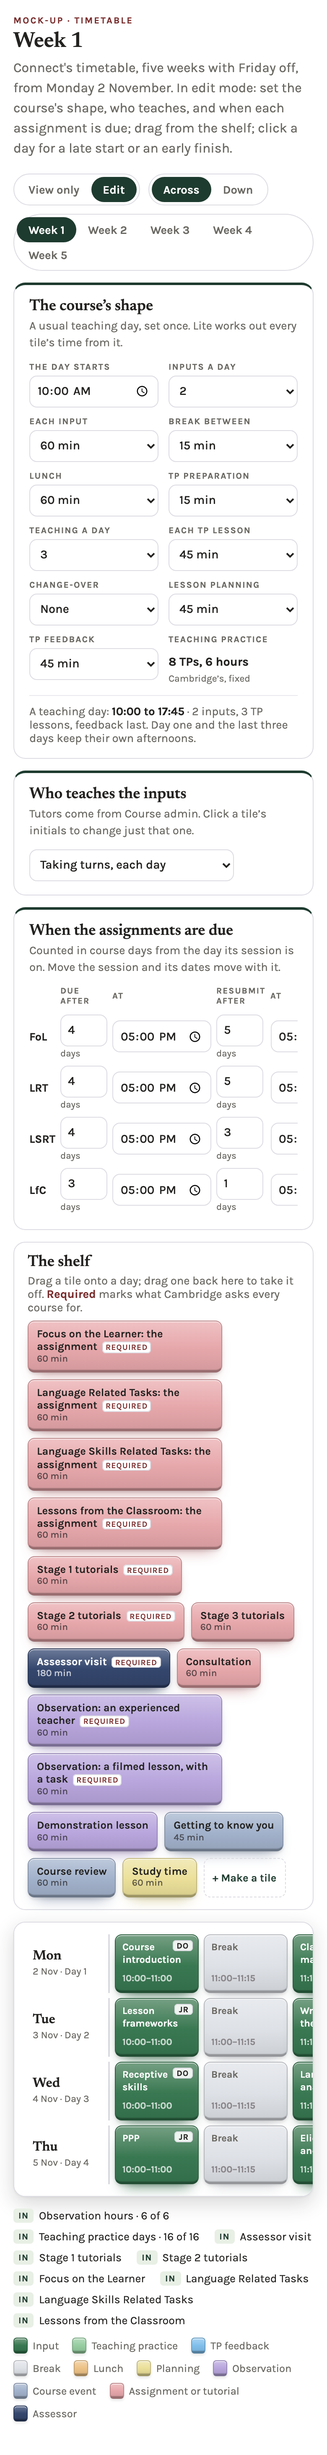
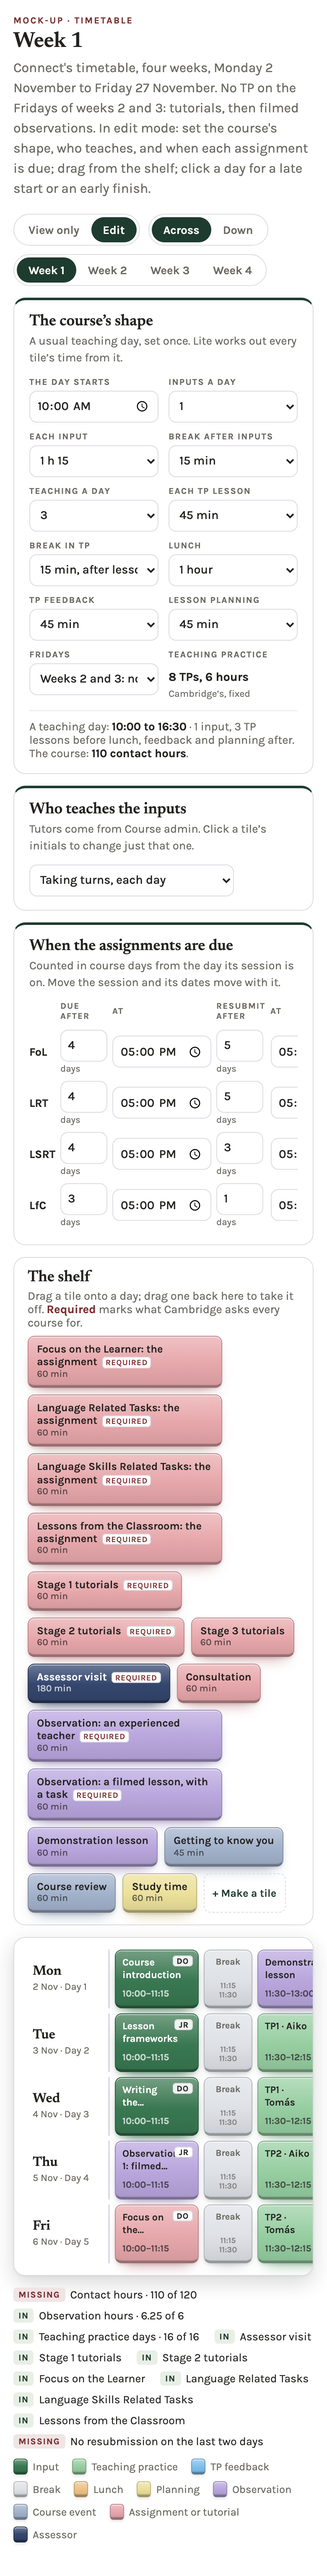
Timetable mock-up on Connect's new day (Ramy, 29 Oct 2026): input 10:00-11:15, break, three 45-minute TP lessons from 11:30 with a break after the second, lunch 14:00-15:00, feedback 15:00-15:45, planning 15:45-16:30; four weeks, Monday to Friday; no TP on the Fridays of weeks 2 (Stage 1 tutorials) 

diff --git a/docs/mockups/timetable-whole.html b/docs/mockups/timetable-whole.html
@@ -86,6 +86,8 @@
   .cell.has-who .t{padding-right:28px;}
   .cell .me{display:inline-flex; align-items:center; justify-content:center; min-width:22px; height:22px; margin-left:4px; border-radius:6px; background:var(--a-forest); color:var(--paper); font:700 .8rem Karla,sans-serif; vertical-align:1px;}
   .empty{background:none; border:1.5px dashed var(--row-line);}
+  .cell.slim{padding:7px 5px; font-size:.68rem; align-items:center; text-align:center;} .cell.slim .tm{font-size:.6rem; line-height:1.2;}
+  .grid.down .cell.slim{height:34px; flex-direction:row; justify-content:space-between; padding:0 10px;} .grid.down .cell.slim .tm{margin:0;}
   .gone{background:repeating-linear-gradient(135deg, transparent 0 6px, var(--row-line) 6px 7px); border:1.5px solid var(--row-line); color:var(--grey); font-size:.72rem; font-weight:600; justify-content:center; align-items:center; text-align:center;}
 
 .k-assessor small{color:color-mix(in oklch, var(--paper) 80%, transparent);}
@@ -143,7 +145,7 @@
 <div class="wrap" id="root">
   <p class="eyebrow">Mock-up · Timetable</p>
   <h1 id="title">Week 1</h1>
-  <p class="lede">Connect's timetable, five weeks with Friday off, from Monday 2 November. In edit mode: set the course's shape, who teaches, and when each assignment is due; drag from the shelf; click a day for a late start or an early finish.</p>
+  <p class="lede">Connect's timetable, four weeks, Monday 2 November to Friday 27 November. No TP on the Fridays of weeks 2 and 3: tutorials, then filmed observations. In edit mode: set the course's shape, who teaches, and when each assignment is due; drag from the shelf; click a day for a late start or an early finish.</p>
   <div class="bar">
     <div class="seg" id="mode"><button data-v="view" class="on">View only</button><button data-v="edit">Edit</button></div>
     <div class="seg" id="lay"><button data-v="across" class="on">Across</button><button data-v="down">Down</button></div>
@@ -157,16 +159,16 @@
       <p class="s">A usual teaching day, set once. Lite works out every tile&rsquo;s time from it.</p>
       <div class="f">
         <label><span>The day starts</span><input type="time" id="sh_start" value="10:00" step="900"></label>
-        <label><span>Inputs a day</span><select id="sh_inN"><option>1</option><option selected>2</option><option>3</option></select></label>
-        <label><span>Each input</span><select id="sh_inL"><option value="45">45 min</option><option value="60" selected>60 min</option><option value="75">75 min</option><option value="90">90 min</option></select></label>
-        <label><span>Break between</span><select id="sh_br"><option value="0">None</option><option value="15" selected>15 min</option><option value="30">30 min</option></select></label>
-        <label><span>Lunch</span><select id="sh_lu"><option value="30">30 min</option><option value="45">45 min</option><option value="60" selected>60 min</option></select></label>
-        <label><span>TP preparation</span><select id="sh_pr"><option value="0">None</option><option value="15" selected>15 min</option><option value="30">30 min</option></select></label>
+        <label><span>Inputs a day</span><select id="sh_inN"><option selected>1</option><option>2</option></select></label>
+        <label><span>Each input</span><select id="sh_inL"><option value="45">45 min</option><option value="60">60 min</option><option value="75" selected>1 h 15</option><option value="90">1 h 30</option></select></label>
+        <label><span>Break after inputs</span><select id="sh_br"><option value="0">None</option><option value="15" selected>15 min</option><option value="30">30 min</option></select></label>
         <label><span>Teaching a day</span><select id="sh_tpN"><option>2</option><option selected>3</option><option>4</option></select></label>
         <label><span>Each TP lesson</span><select id="sh_tpL"><option value="40">40 min</option><option value="45" selected>45 min</option><option value="60">60 min</option></select></label>
-        <label><span>Change-over</span><select id="sh_gap"><option value="0" selected>None</option><option value="15">15 min</option></select></label>
-        <label><span>Lesson planning</span><select id="sh_pl"><option value="0">None</option><option value="45" selected>45 min</option><option value="60">60 min</option></select></label>
+        <label><span>Break in TP</span><select id="sh_gap"><option value="0">None</option><option value="15" selected>15 min, after lesson 2</option></select></label>
+        <label><span>Lunch</span><select id="sh_lu"><option value="30">30 min</option><option value="45">45 min</option><option value="60" selected>1 hour</option></select></label>
         <label><span>TP feedback</span><select id="sh_fb"><option value="30">30 min</option><option value="45" selected>45 min</option><option value="60">60 min</option></select></label>
+        <label><span>Lesson planning</span><select id="sh_pl"><option value="0">None</option><option value="45" selected>45 min</option><option value="60">60 min</option></select></label>
+        <label><span>Fridays</span><select id="sh_fri"><option value="obs" selected>Weeks 2 and 3: no TP</option><option value="tp">Like any day</option></select></label>
         <div class="fixed"><span class="lab">Teaching practice</span><b>8 TPs, 6 hours</b><small>Cambridge&rsquo;s, fixed</small></div>
       </div>
       <p class="sum" id="sum"></p>
@@ -219,7 +221,7 @@
     { k:'event', t:'Getting to know you', len:45 }, { k:'event', t:'Course review', len:60 }, { k:'plan', t:'Study time', len:60 }
   ];
   /* five weeks, Friday off */
-  var DATES = []; (function(){ var d = new Date(2026, 10, 2); while (DATES.length < 20) { if ([1,2,3,4].indexOf(d.getDay()) !== -1) DATES.push(new Date(d)); d.setDate(d.getDate() + 1); } })();
+  var DATES = []; (function(){ var d = new Date(2026, 10, 2); while (DATES.length < 20) { if ([1,2,3,4,5].indexOf(d.getDay()) !== -1) DATES.push(new Date(d)); d.setDate(d.getDate() + 1); } })();
   var WD = ['Sun','Mon','Tue','Wed','Thu','Fri','Sat'], MO = ['Jan','Feb','Mar','Apr','May','Jun','Jul','Aug','Sep','Oct','Nov','Dec'];
   function v(id){ var e = document.getElementById(id); return e.type === 'time' ? e.value : +e.value; }
   function hm(m){ return String(Math.floor(m / 60)).padStart(2, '0') + ':' + String(m % 60).padStart(2, '0'); }
@@ -229,53 +231,81 @@
   var mode = 'view', lay = 'across', week = 0, BAR = [], CELLS = [], MOD = {}, HAND = {}, drag = null, pop = null;
   function dayShape(){
     var t = mins(v('sh_start')), out = [];
-    function add(k, len, gap){ if (len > 0) { out.push({ k: k, s: hm(t), e: hm(t + len) }); t += len; } t += gap || 0; }
-    var n = v('sh_inN'); for (var i = 0; i < n; i++) { add('input', v('sh_inL')); if (i < n - 1 && v('sh_br')) add('break', v('sh_br')); }
-    add('lunch', v('sh_lu')); add('prep', v('sh_pr'));
-    for (var j = 0; j < v('sh_tpN'); j++) add('tp', v('sh_tpL'), v('sh_gap') || (j === 1 ? 15 : 0));
-    add('plan', v('sh_pl'), 15); add('feedback', v('sh_fb'));
+    function add(k, len){ if (len > 0) { out.push({ k: k, s: hm(t), e: hm(t + len) }); t += len; } }
+    for (var i = 0; i < v('sh_inN'); i++) add('input', v('sh_inL'));
+    add('break', v('sh_br'));
+    for (var j = 0; j < v('sh_tpN'); j++) { add('tp', v('sh_tpL')); if (j === 1) add('break', v('sh_gap')); }
+    add('lunch', v('sh_lu')); add('feedback', v('sh_fb')); add('plan', v('sh_pl'));
     return out;
   }
   function col(s){ var c = 0; for (var i = 0; i < BAR.length; i++) if (BAR[i][0] <= s) c = i; return c; }
-  function who(i){ return document.getElementById('tutMode').value === 'alt' ? TUT[i % 2][0] : (DATES[CUR_DAY] >= DATES[+document.getElementById('tutFrom').value] ? 'JR' : 'DO'); }
-  var CUR_DAY = 0;
+  function who(i){ return document.getElementById('tutMode').value === 'alt' ? TUT[i % 2][0] : (CUR_DAY >= +document.getElementById('tutFrom').value ? 'JR' : 'DO'); }
+  var CUR_DAY = 0, CONTACT = 0;
+  /* which TP is on each day, and whose group: day one is the demonstration lesson; the Fridays of weeks 2 and 3 are
+     filmed observations with no TP; TP8 ends on the last Thursday and the last Friday closes the course */
+  function plan(){
+    var out = [], n = 0, fri = v('sh_fri') !== 'tp' ? 1 : 0;
+    DATES.forEach(function(d, i){
+      var isFri = d.getDay() === 5, last = i === DATES.length - 1;
+      /* Ramy, 29 Oct 2026: "only 2 Fridays off ... week 2, week 3, TP off" */
+      var wk = Math.floor(i / 5);
+      if (i === 0 || (fri && isFri && (wk === 1 || wk === 2)) || n >= 16) { out.push(null); return; }
+      out.push({ tp: Math.floor(n / 2) + 1, g: n % 2 }); n++;
+    });
+    return out;
+  }
   function build(){
     var shape = dayShape(); BAR = shape.map(function(x){ return [x.s, x.e]; });
-    var q = ORDER.slice(); CELLS = [];
+    var q = ORDER.filter(function(x){ return !/^Observation/.test(x); }), P = plan(); CELLS = [];
+    var G = [['Aiko','Nour','Lucas','Mei'], ['Tomás','Lena','Omar','Sofía']];
     function put(row, x){ var c = col(x.s); while (row[c] && c < BAR.length - 1) c++; row[c] = x; }
+    var tps = shape.filter(function(x){ return x.k === 'tp'; }), lunch = shape.filter(function(x){ return x.k === 'lunch'; })[0];
+    var after = shape.filter(function(x){ return x.k === 'feedback' || x.k === 'plan'; });
+    var extra = { 9: [[0,'task','Language Related Tasks: the assignment','lrt'], [3,'task','Stage 1 tutorials']], 14: [[0,'task','Language Skills Related Tasks: the assignment','lsrt'], [3,'task','Stage 2 tutorials']] };
     for (var d = 0; d < 20; d++) {
-      CUR_DAY = d; var row = BAR.map(function(){ return null; }), slot = 0, ti = 0, tp = Math.ceil(d / 2);
+      CUR_DAY = d; var row = BAR.map(function(){ return null; }), p = P[d], isFri = DATES[d].getDay() === 5;
       shape.forEach(function(x){
         if (x.k === 'input') {
-          slot++;
           var o;
-          if (d === 0) o = { k:'input', t: slot === 1 ? 'Course introduction' : 'Classroom management' };
-          else if (d === 18) o = { k:'assessor', t: slot === 1 ? 'Assessor visit: teaching practice' : 'Assessor visit: feedback' };
-          else if (d === 19) o = { k:'event', t: slot === 1 ? 'Course review and CELTA 5 checks' : 'End of course' };
-          else { var tk = TASKS[d + '.' + slot]; if (tk) o = { k: tk[0], t: tk[1], asg: tk[2] }; else { var nx = q.shift() || 'Input session'; o = /^Observation/.test(nx) ? { k:'demo', t: nx + ' (film, with a task)' } : { k:'input', t: nx }; } }
-          if (o.k !== 'assessor' && o.k !== 'event') o.by = who(slot - 1 + d);
+          if (d === 0) o = { k:'input', t:'Course introduction' };
+          else if (d === 4) o = { k:'task', t:'Focus on the Learner: the assignment', asg:'fol' };
+          /* two observations in input slots (Ramy, 29 Oct 2026), so the course reaches Cambridge's six hours */
+          else if (d === 3) o = { k:'demo', t:'Observation 1: filmed, with a task' };
+          else if (d === 12) o = { k:'demo', t:'Observation 2: filmed, with a task' };
+          else if (d === 15) o = { k:'task', t:'Lessons from the Classroom: the assignment', asg:'lfc' };
+          else if (d === 17) o = { k:'assessor', t:'Assessor visit' };
+          else if (d === 19) o = { k:'event', t:'Course review and CELTA 5 checks' };
+          else o = { k:'input', t: q.shift() || 'Input session' };
+          if (o.k !== 'assessor' && o.k !== 'event') o.by = who(d);
           o.s = x.s; o.e = x.e; put(row, o); return;
         }
-        if (x.k === 'break' || x.k === 'lunch') { put(row, { k: x.k, t: KINDS[x.k], s: x.s, e: x.e }); return; }
-        if (d >= 1 && d <= 16) {
-          if (x.k === 'prep') put(row, { k:'plan', t:'TP preparation', s: x.s, e: x.e });
-          /* who teaches, by letter, and the tutor watching (29 Oct 2026, Ramy: the trainee's name stays, and the tutor watching rides on the tile).
-             Two groups take the days in turn; the tutors swap groups after TP4. */
-          if (x.k === 'tp') { var g = d % 2 ? 0 : 1, tut = (g === 0) === (tp <= 4) ? 'DO' : 'JR'; put(row, { k:'tp', t:'TP' + tp + ' · ' + NAMES[(ti++ + (d % 2 ? 0 : 3)) % NAMES.length], by: tut, s: x.s, e: x.e }); }
-          if (x.k === 'plan') put(row, { k:'plan', t:'Lesson planning', s: x.s, e: x.e });
-          if (x.k === 'feedback') put(row, { k:'feedback', t:'TP feedback', s: x.s, e: x.e });
-        }
+        if (x.k === 'break' || x.k === 'lunch') put(row, { k: x.k, t: KINDS[x.k], s: x.s, e: x.e });
       });
-      var lunchEnd = mins(shape.filter(function(x){ return x.k === 'lunch'; })[0].e);
-      function at(off, len, o){ o.s = hm(lunchEnd + off); o.e = hm(lunchEnd + off + len); put(row, o); }
-      if (d === 0) { at(15, 60, { k:'demo', t:'Demonstration lesson' }); at(90, 45, { k:'event', t:'Getting to know you: your activity' }); at(135, 150, { k:'plan', t:'Lesson planning: TP1' }); }
-      if (d === 17) { at(15, 60, { k:'demo', t:'Observation 5: an experienced teacher (film, with a task)', by:'DO' }); at(90, 90, { k:'task', t:'Tutorials', by:'JR' }); at(195, 90, { k:'task', t:'Consultation: assignments and resubmissions', by:'DO' }); }
-      if (d === 18) { at(15, 90, { k:'task', t:'Tutorials', by:'DO' }); at(120, 165, { k:'task', t:'Consultation: the CELTA 5 and the portfolio', by:'JR' }); }
-      if (d === 19) { at(15, 90, { k:'task', t:'Final tutorials', by:'DO' }); at(120, 165, { k:'task', t:'Consultation: what comes next', by:'JR' }); }
+      if (p) {
+        var tut = (p.g === 0) === (p.tp <= 4) ? 'DO' : 'JR';
+        tps.forEach(function(x, i){ put(row, { k:'tp', t:'TP' + p.tp + ' · ' + G[p.g][i % 4], by: tut, s: x.s, e: x.e }); });
+        after.forEach(function(x){ put(row, { k: x.k, t: x.k === 'feedback' ? 'TP feedback' : (p.tp >= 7 ? 'Independent planning' : 'Lesson planning'), by: x.k === 'feedback' ? tut : undefined, s: x.s, e: x.e }); });
+      } else if (d === 0) {
+        put(row, { k:'demo', t:'Demonstration lesson', s: tps[0].s, e: tps[1].e });
+        put(row, { k:'event', t:'Getting to know you: your activity', s: tps[2].s, e: tps[2].e });
+        after.forEach(function(x){ put(row, { k: x.k === 'feedback' ? 'event' : 'plan', t: x.k === 'feedback' ? 'Demo lesson debrief' : 'Lesson planning: TP1', s: x.s, e: x.e }); });
+      } else if (d === 19) {
+        /* the last day */
+        tps.concat(after).forEach(function(x, i){ var f = [['task','Final tutorials'], ['task','Final tutorials'], ['task','Consultation: the CELTA 5 and the portfolio'], ['task','Consultation: what comes next'], ['event','End of course']][i]; put(row, { k: f[0], t: f[1], by: f[0] === 'task' ? who(i) : undefined, s: x.s, e: x.e }); });
+      } else if (isFri) {
+        /* a filmed-observations Friday: three observations with their tasks, consultations, the week's assignment or tutorials */
+        var slots = tps.concat(after), fill = [['demo','Filmed observation, with a task'], ['demo','Filmed observation, with a task'], ['task','Consultation'], ['demo','Filmed observation, with a task'], ['task','Consultation']];
+        /* Ramy, 29 Oct 2026: "week 2 Friday will be tutorials" */
+        if (d === 9) fill = [['task','Stage 1 tutorials'], ['task','Stage 1 tutorials'], ['task','Language Related Tasks: the assignment','lrt'], ['task','Stage 1 tutorials'], ['task','Consultation']];
+        else (extra[d] || []).forEach(function(e){ fill[e[0] === 0 ? 2 : 4] = [e[1], e[2], e[3]]; });
+        slots.forEach(function(x, i){ var f = fill[i] || ['task','Consultation']; var o = { k: f[0], t: f[1], s: x.s, e: x.e }; if (f[2]) o.asg = f[2]; if (f[0] !== 'demo') o.by = who(d + i); put(row, o); });
+      }
       CELLS.push(row);
     }
     var last = shape[shape.length - 1];
-    document.getElementById('sum').innerHTML = 'A teaching day: <b>' + shape[0].s + ' to ' + last.e + '</b> · ' + v('sh_inN') + ' input' + (v('sh_inN') > 1 ? 's' : '') + ', ' + v('sh_tpN') + ' TP lessons, feedback last. Day one and the last three days keep their own afternoons.';
+    var contact = 0; CELLS.forEach(function(row){ row.forEach(function(x){ if (x && x.k !== 'lunch') contact += mins(x.e) - mins(x.s); }); });
+    CONTACT = contact / 60;
+    document.getElementById('sum').innerHTML = 'A teaching day: <b>' + shape[0].s + ' to ' + last.e + '</b> · ' + v('sh_inN') + ' input' + (v('sh_inN') > 1 ? 's' : '') + ', ' + v('sh_tpN') + ' TP lessons before lunch, feedback and planning after. The course: <b>' + (Math.round(CONTACT * 4) / 4) + ' contact hours</b>.';
   }
 
   /* deadlines: from the day an assignment's session sits on, in course days, skipping a day off */
@@ -298,20 +328,21 @@
   function off(r, c){
     var m = MOD[r]; if (!m) return '';
     if (m === 'off') return 'Day off';
-    if (m === 'late' && BAR[c][0] < '11:15') return 'Starts 11:15';
-    if (m === 'early' && BAR[c][0] >= '13:15') return 'Finishes 13:15';
-    if (m === 'notp') { var x = CELLS[r][c]; if (x && (x.k === 'tp' || x.k === 'feedback' || x.t === 'TP preparation' || x.t === 'Lesson planning')) return 'No TP today'; }
+    if (m === 'late' && BAR[c][0] < '11:30') return 'Starts 11:30';
+    if (m === 'early' && BAR[c][0] >= '14:00') return 'Finishes 14:00';
+    if (m === 'notp') { var x = CELLS[r][c]; if (x && (x.k === 'tp' || x.k === 'feedback' || /planning/i.test(x.t))) return 'No TP today'; }
     return '';
   }
   function tile(r, c){
     var x = CELLS[r][c], el = document.createElement('div'), why = off(r, c);
     el.dataset.r = r; el.dataset.c = c;
+    if (mins(BAR[c][1]) - mins(BAR[c][0]) <= 15) el.classList.add('slim');
     if (why) { el.className = 'cell gone'; el.textContent = why; return el; }
     if (!x) el.className = 'cell empty';
     else {
       var showT = true;
-      el.className = 'cell k-' + x.k + (x.by ? ' has-who' : '');
-      el.innerHTML = '<span class="t">' + esc(x.t) + (x.me ? ' <span class="me">' + x.me + '</span>' : '') + '</span>' + (x.by ? '<button class="who" type="button">' + x.by + '</button>' : '') + (showT ? '<span class="tm">' + x.s + '–' + x.e + '</span>' : '');
+      el.className = 'cell k-' + x.k + (x.by ? ' has-who' : '') + (mins(BAR[c][1]) - mins(BAR[c][0]) <= 15 ? ' slim' : '');
+      el.innerHTML = '<span class="t">' + esc(x.t) + (x.me ? ' <span class="me">' + x.me + '</span>' : '') + '</span>' + (x.by ? '<button class="who" type="button">' + x.by + '</button>' : '') + (showT ? '<span class="tm">' + x.s + (mins(BAR[c][1]) - mins(BAR[c][0]) <= 15 && lay === 'across' ? '<br>' : '–') + x.e + '</span>' : '');
       el.title = KINDS[x.k] + ': ' + x.t + (x.me ? ', trainee ' + x.me : '') + (x.by ? ', ' + (x.by === 'DO' ? 'Diane Okonkwo' : 'Jordan Reyes') : '') + ', ' + x.s + ' to ' + x.e;
       if (mode === 'edit' && x.by) el.querySelector('.who').addEventListener('click', function(e){ e.stopPropagation(); x.by = x.by === 'DO' ? 'JR' : 'DO'; render(); });
     }
@@ -331,7 +362,7 @@
   function place(x, c){ if (!x) return null; var o = Object.assign({}, x), len = mins(x.e) - mins(x.s); o.s = BAR[c][0]; o.e = hm(mins(o.s) + len); return o; }
   function dayCell(r, F){
     var d = DATES[r], el = document.createElement('div'); el.className = 'day'; el.dataset.r = r;
-    var mod = { late:'Starts 11:15', early:'Finishes 13:15', notp:'No TP today', off:'Day off' }[MOD[r]];
+    var mod = { late:'Starts 11:30', early:'Finishes 14:00', notp:'No TP today', off:'Day off' }[MOD[r]];
     el.innerHTML = '<b>' + WD[d.getDay()] + '</b><span class="dt">' + d.getDate() + ' ' + MO[d.getMonth()] + ' · Day ' + (r + 1) + '</span>' + (mod ? '<span class="mod">' + mod + '</span>' : '');
     F[r].forEach(function(f){
       var s = document.createElement('span'); s.className = 'flag' + (f.w === 're' ? ' re' : '') + (f.hand ? ' hand' : ''); s.textContent = f.a.n + (f.w === 're' ? ' resubmission ' : ' due ') + f.t;
@@ -348,7 +379,7 @@
   }
   function openPop(anchor, r){
     closePop(); pop = document.createElement('div'); pop.className = 'pop';
-    pop.innerHTML = '<div class="ph">This day only</div>' + [['', 'As the course&rsquo;s shape'], ['late', 'Start later (11:15)'], ['early', 'Finish earlier (13:15)'], ['notp', 'No TP today'], ['off', 'Day off']].map(function(o){ return '<button data-m="' + o[0] + '"' + ((MOD[r] || '') === o[0] ? ' class="on"' : '') + '>' + o[1] + '</button>'; }).join('');
+    pop.innerHTML = '<div class="ph">This day only</div>' + [['', 'As the course&rsquo;s shape'], ['late', 'Start later (11:30)'], ['early', 'Finish earlier (14:00)'], ['notp', 'No TP today'], ['off', 'Day off']].map(function(o){ return '<button data-m="' + o[0] + '"' + ((MOD[r] || '') === o[0] ? ' class="on"' : '') + '>' + o[1] + '</button>'; }).join('');
     var b = anchor.getBoundingClientRect(); pop.style.left = (b.left + window.scrollX + 8) + 'px'; pop.style.top = (b.bottom + window.scrollY - 6) + 'px';
     document.body.appendChild(pop);
     pop.addEventListener('click', function(e){ var t = e.target.closest('button'); if (!t) return; if (t.dataset.m) MOD[r] = t.dataset.m; else delete MOD[r]; closePop(); render(); });
@@ -358,9 +389,12 @@
 
   function render(){
     closePop();
-    var rows = [week * 4, week * 4 + 1, week * 4 + 2, week * 4 + 3], F = flags();
+    var rows = [0,1,2,3,4].map(function(i){ return week * 5 + i; }), F = flags();
     document.getElementById('title').textContent = 'Week ' + (week + 1);
     grid.innerHTML = ''; grid.className = 'grid ' + lay; grid.style.setProperty('--n', lay === 'across' ? BAR.length : rows.length);
+    /* the 15-minute breaks are narrower than the sessions (Ramy, 29 Oct 2026: "make the 15-minute break tiles smaller") */
+    var narrow = BAR.map(function(b){ return mins(b[1]) - mins(b[0]) <= 15; });
+    grid.style.gridTemplateColumns = lay === 'across' ? (innerWidth < 640 ? '100px ' : '150px ') + narrow.map(function(n){ return n ? '58px' : (innerWidth < 640 ? '100px' : 'minmax(108px, 1fr)'); }).join(' ') : '';
     document.getElementById('root').classList.toggle('editing', mode === 'edit');
     function tick(i){ var t = document.createElement('div'); t.className = 'tick'; t.innerHTML = BAR[i][0] + '<small>to ' + BAR[i][1] + '</small>'; return t; }
     if (lay === 'across') { rows.forEach(function(r){ grid.appendChild(dayCell(r, F)); BAR.forEach(function(_, c){ grid.appendChild(tile(r, c)); }); }); }
@@ -370,16 +404,19 @@
   /* what Cambridge asks of every course, said before you lock it */
   function checks(){
     var all = []; CELLS.forEach(function(row, r){ if (MOD[r] !== 'off') row.forEach(function(x, c){ if (x && !off(r, c)) all.push(x); }); });
-    var obs = all.filter(function(x){ return x.k === 'demo' && /Observation|Demonstration/.test(x.t); }).reduce(function(a, x){ return a + (mins(x.e) - mins(x.s)); }, 0) / 60;
+    var obs = all.filter(function(x){ return x.k === 'demo'; }).reduce(function(a, x){ return a + (mins(x.e) - mins(x.s)); }, 0) / 60;
     var tps = 0; CELLS.forEach(function(row, r){ if (MOD[r] !== 'off' && MOD[r] !== 'notp' && MOD[r] !== 'early') { if (row.some(function(x){ return x && x.k === 'tp'; })) tps++; } });
     function has(re){ return all.some(function(x){ return re.test(x.t); }); }
-    var L = [['Observation hours', obs >= 6, obs + ' of 6'], ['Teaching practice days', tps >= 16, tps + ' of 16'], ['Assessor visit', has(/Assessor visit/)], ['Stage 1 tutorials', has(/Stage 1 tutorials/)], ['Stage 2 tutorials', has(/Stage 2 tutorials/)]]
+    var L = [['Contact hours', CONTACT >= 120, (Math.round(CONTACT * 4) / 4) + ' of 120'], ['Observation hours', obs >= 6, obs + ' of 6'], ['Teaching practice days', tps >= 16, tps + ' of 16'], ['Assessor visit', has(/Assessor visit/)], ['Stage 1 tutorials', has(/Stage 1 tutorials/)], ['Stage 2 tutorials', has(/Stage 2 tutorials/)]]
       .concat(ASG.map(function(a){ return [a.full, all.some(function(x){ return x.asg === a.k; })]; }));
+    /* his C/18 rule (8 Oct 2026): no resubmission on the last two days */
+    var F = flags(), lateRe = [18, 19].some(function(i){ return (F[i] || []).some(function(f){ return f.w === 're'; }); });
+    L.push(['No resubmission on the last two days', !lateRe]);
     document.getElementById('checks').innerHTML = L.map(function(c){ return '<span><b class="' + (c[1] ? 'ok' : 'no') + '">' + (c[1] ? 'In' : 'Missing') + '</b>' + esc(c[0]) + (c[2] ? ' · ' + c[2] : '') + '</span>'; }).join('');
   }
 
   /* the cards */
-  document.getElementById('weeks').innerHTML = [0,1,2,3,4].map(function(i){ return '<button data-w="' + i + '"' + (i ? '' : ' class="on"') + '>Week ' + (i + 1) + '</button>'; }).join('');
+  document.getElementById('weeks').innerHTML = [0,1,2,3].map(function(i){ return '<button data-w="' + i + '"' + (i ? '' : ' class="on"') + '>Week ' + (i + 1) + '</button>'; }).join('');
   document.getElementById('tutFrom').innerHTML = DATES.map(function(d, i){ return '<option value="' + i + '"' + (i === 10 ? ' selected' : '') + '>from ' + WD[d.getDay()] + ' ' + d.getDate() + ' ' + MO[d.getMonth()] + '</option>'; }).join('');
   var T = document.getElementById('asgT');
   ASG.forEach(function(a, i){
